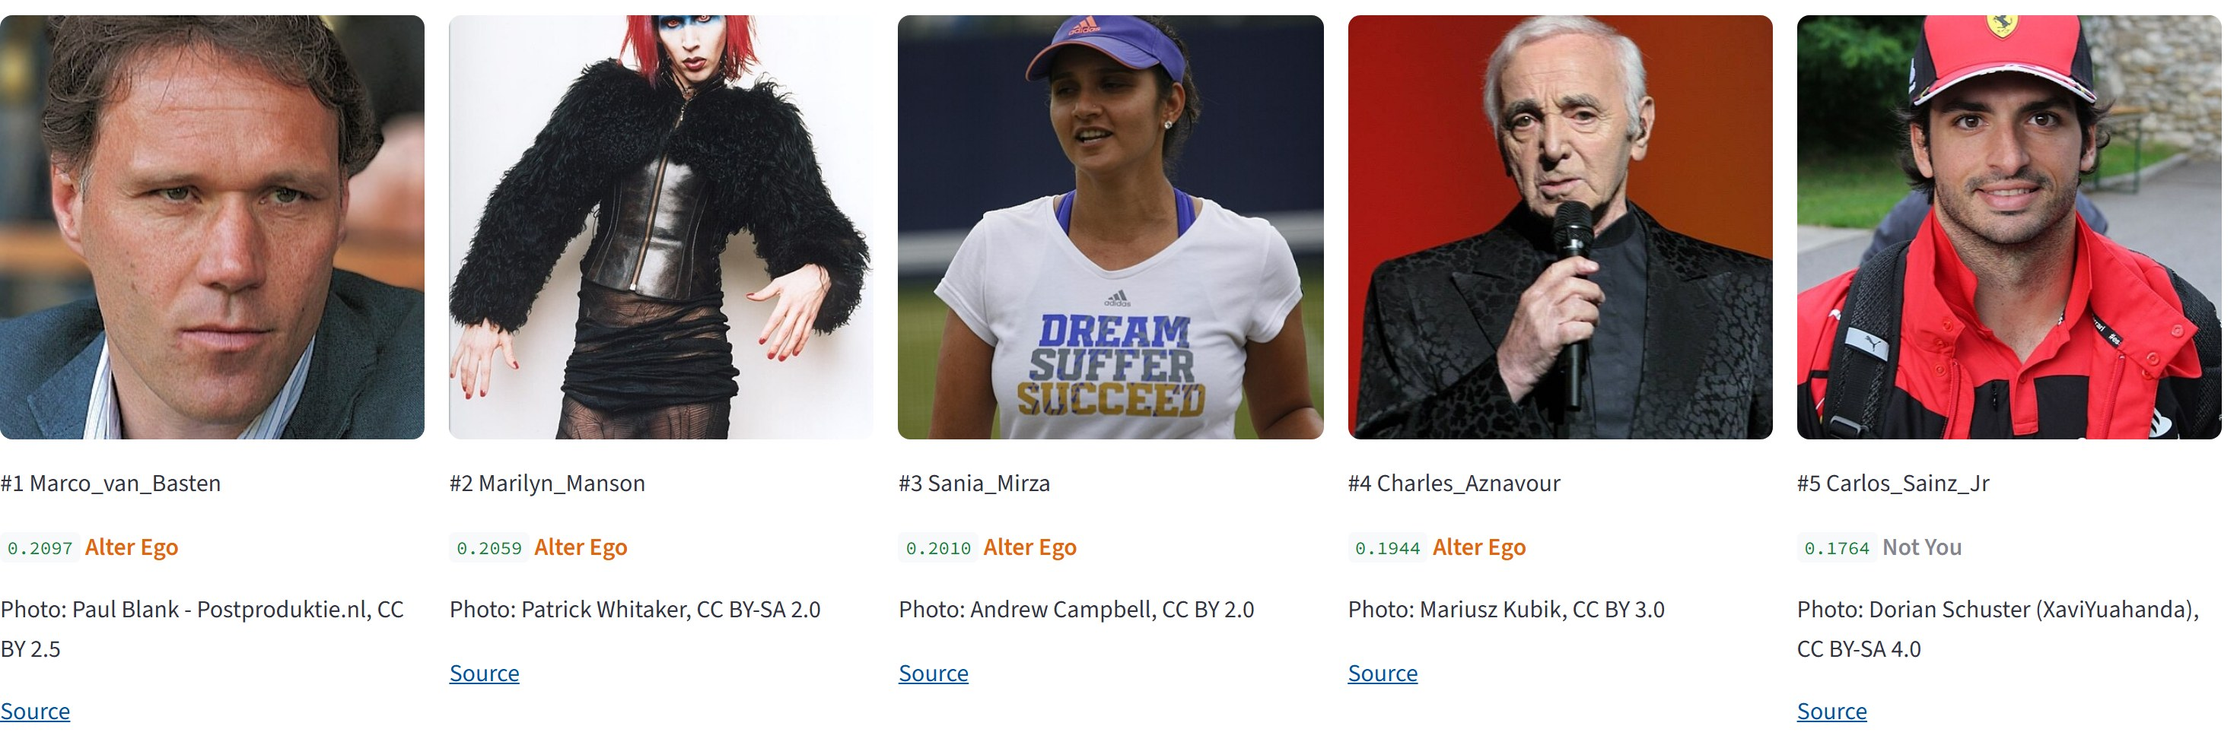
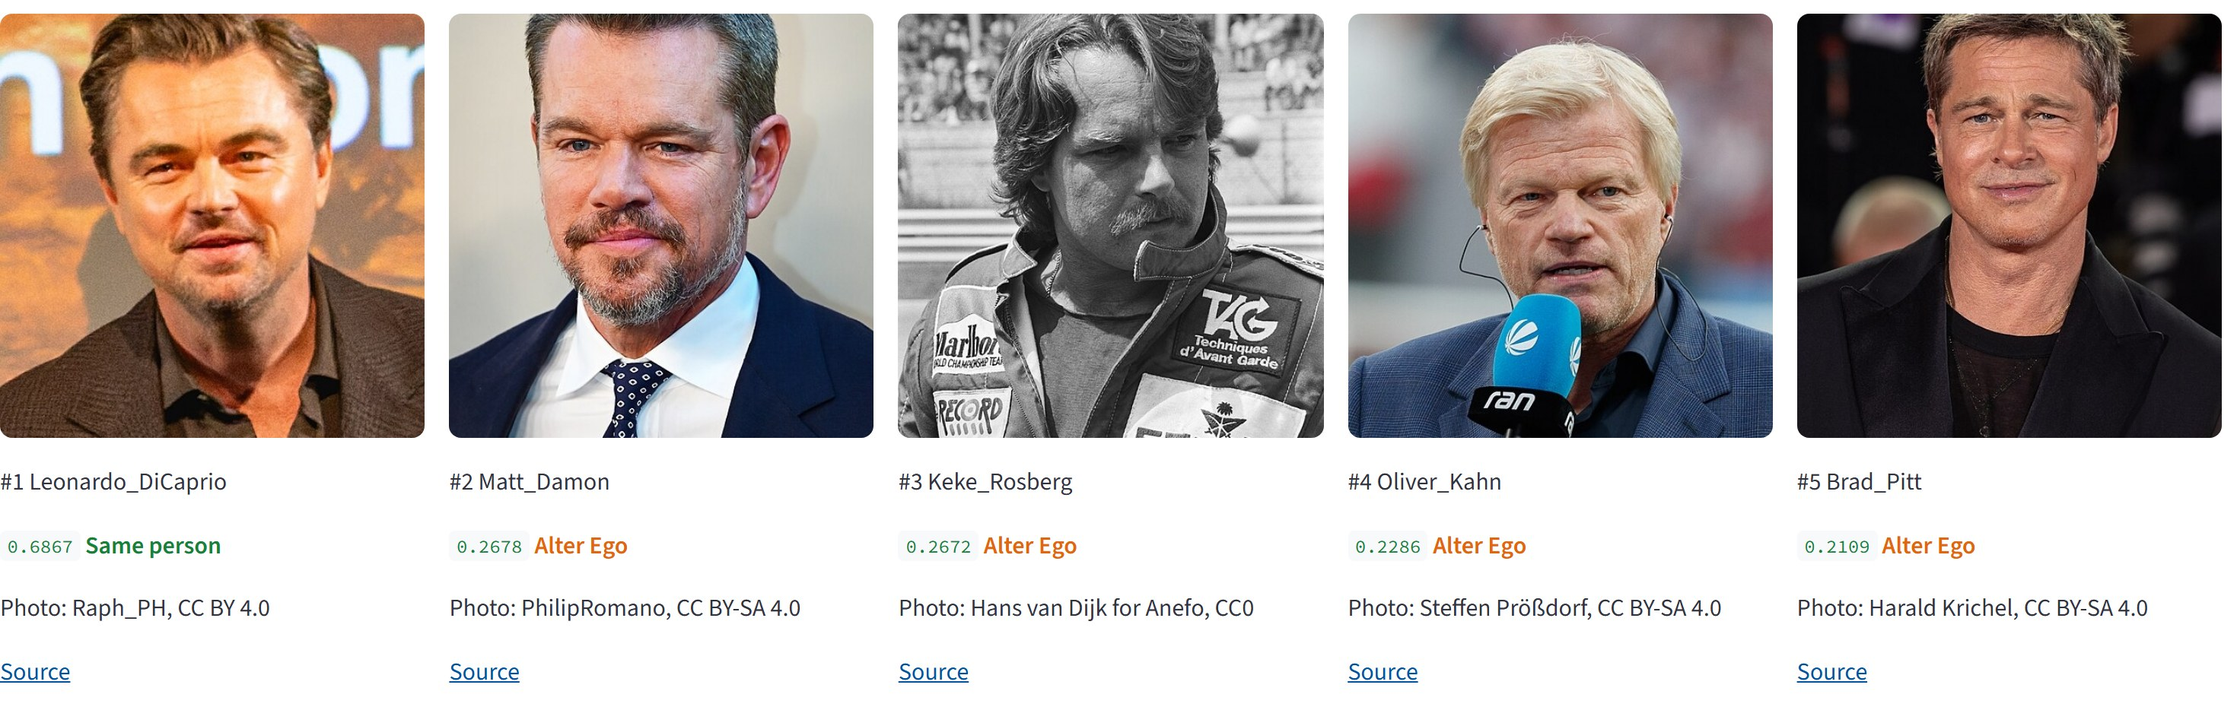
Rework the tour video: Brad Pitt or Leonardo DiCaprio? (step 3)
A second photo of a pool member shows all three labels in one run.

diff --git a/video/tour/compositions/target.html b/video/tour/compositions/target.html
@@ -8,25 +8,26 @@
     #tg-cam { position: absolute; left: 0; top: 0; width: 1920px; height: 1080px; transform-origin: 0 0; background: #fff; outline: 3px solid #1d3c78; }
     #tg-cam img { display: block; width: 1920px; height: 1080px; }
     #tg-ring { position: absolute; left: 0; top: 0; width: 1920px; height: 1080px; overflow: visible; }
-    #tg-panel { position: absolute; left: 60px; top: 330px; width: 660px; height: 300px; background: #f4f7fb; border: 3px solid #1d3c78; padding: 36px 40px; }
+    #tg-panel { position: absolute; left: 60px; top: 330px; width: 660px; height: 380px; background: #f4f7fb; border: 3px solid #1d3c78; padding: 36px 40px; }
     .line { position: absolute; left: 40px; top: 36px; width: 580px; font-family: "Barlow Condensed"; font-weight: 700; text-transform: uppercase; color: #1d3c78; font-size: 72px; line-height: 1; letter-spacing: .01em; }
     .w { display: inline-block; }
     .gold { color: #b8901c; }
   </style>
   <div id="root" data-composition-id="target" data-width="1920" data-height="1080">
     <div id="tg-cam-clip" class="clip layer" data-start="0" data-duration="7">
-      <div id="tg-cam" data-layout-allow-overflow><img src="assets/app-result.jpg" alt="AlterEgo Finder's similarity target for Marie Curie" /></div>
+      <div id="tg-cam" data-layout-allow-overflow><img src="assets/app-result.jpg" alt="AlterEgo Finder's similarity target for the photo" /></div>
       <svg id="tg-ring" viewBox="0 0 1920 1080" data-layout-ignore>
-        <circle id="tg-circle" cx="1300" cy="307" r="44" fill="none" stroke="#1d3c78" stroke-width="5" pathLength="1" stroke-dasharray="1" stroke-dashoffset="1" />
+        <circle id="tg-circle" cx="1300" cy="449" r="44" fill="none" stroke="#1d3c78" stroke-width="5" pathLength="1" stroke-dasharray="1" stroke-dashoffset="1" />
+        <circle id="tg-circle2" cx="1442" cy="722" r="44" fill="none" stroke="#1d3c78" stroke-width="5" pathLength="1" stroke-dasharray="1" stroke-dashoffset="1" />
       </svg>
     </div>
     <div id="tg-panel-clip" class="clip layer" data-start="0" data-duration="7">
       <div id="tg-panel">
         <div id="tg-cap1" class="line">
-          <span class="w">Closest:</span> <span class="w">Marco</span> <span class="w">van</span> <span class="w">Basten,</span> <span class="w">0.2097</span>
+          <span class="w">DiCaprio:</span> <span class="w">inside</span> <span class="w">the</span> <span class="w">ring.</span> <span class="w">Same</span> <span class="w">person,</span> <span class="w">0.6867</span>
         </div>
         <div id="tg-cap2" class="line">
-          <span class="w">Gold</span> <span class="w">means</span> <span class="w">Alter</span> <span class="w">Ego:</span> <span class="w">close,</span> <span class="w">but</span> <span class="w">not</span> <span class="w">her.</span>
+          <span class="w">Brad</span> <span class="w">Pitt:</span> <span class="w">0.2109.</span> <span class="w">Only</span> <span class="w">an</span> <span class="w">Alter</span> <span class="w">Ego.</span>
         </div>
       </div>
     </div>
@@ -43,6 +44,8 @@
     words("#tg-cap1", 1.15);
     tl.to("#tg-circle", { strokeDashoffset: 0, duration: 0.5, ease: "power2.out" }, 1.5);
     out("#tg-cap1", 3.75);
+    tl.to("#tg-circle", { opacity: 0, duration: 0.15, ease: "power3.in" }, 3.75);
+    tl.to("#tg-circle2", { strokeDashoffset: 0, duration: 0.5, ease: "power2.out" }, 4.1);
     words("#tg-cap2", 4.05);
     window.__timelines["target"] = tl;
   </script>

diff --git a/video/tour/compositions/drop.html b/video/tour/compositions/drop.html
@@ -8,7 +8,7 @@
     .layer { position: absolute; inset: 0; }
     .line { position: absolute; font-family: "Barlow Condensed"; font-weight: 700; text-transform: uppercase; color: #1d3c78; letter-spacing: .01em; line-height: .98; }
     .w { display: inline-block; }
-    #drop-hook { left: 150px; top: 300px; font-size: 150px; width: 900px; }
+    #drop-hook { left: 150px; top: 230px; font-size: 140px; width: 960px; }
     #drop-photo { position: absolute; left: 1180px; top: 120px; width: 560px; border: 3px solid #1d3c78; background: #fff; transform-origin: 0 0; overflow: hidden; }
     #drop-photo img { display: block; width: 100%; }
     #drop-credit { position: absolute; left: 1180px; top: 902px; width: 600px; font: 500 28px/1.3 "Barlow"; color: #46505d; }
@@ -20,22 +20,21 @@
     <div id="drop-app-clip" class="clip layer" data-start="2.6" data-duration="6.4">
       <div id="drop-app">
         <img id="drop-empty" src="assets/app-empty.jpg" alt="The AlterEgo Finder page, empty, pool of 500 chosen" />
-        <img id="drop-result" src="assets/app-result.jpg" alt="The AlterEgo Finder page with Marie Curie's result" />
+        <img id="drop-result" src="assets/app-result.jpg" alt="The AlterEgo Finder page with the result for the photo" />
       </div>
     </div>
     <div id="drop-hook" class="line clip" data-start="0" data-duration="3.2">
-      <span class="w">Who</span> <span class="w">does</span> <span class="w">she</span><br />
-      <span class="w">look</span> <span class="w">like?</span>
+      <span class="w">Brad</span> <span class="w">Pitt</span> <span class="w">or</span><br /><span class="w">Leonardo</span><br /><span class="w">DiCaprio?</span>
     </div>
-    <div id="drop-credit" class="clip" data-start="0" data-duration="3.2">Marie Curie, about 1920. Photo: Henri Manuel, public domain (Wikimedia Commons).</div>
+    <div id="drop-credit" class="clip" data-start="0" data-duration="3.2">Photo: Presidencia de la Rep&uacute;blica Mexicana, 2017, CC BY 2.0 (Wikimedia Commons).</div>
     <div id="drop-photo-clip" class="clip layer" data-start="0" data-duration="5.2">
-      <div id="drop-photo"><img id="drop-photo-img" src="assets/curie.jpg" alt="Marie Curie" /></div>
+      <div id="drop-photo"><img id="drop-photo-img" src="assets/leonardo.jpg" alt="A photo of Leonardo DiCaprio, 2017" /></div>
     </div>
     <div id="drop-cap1" class="line clip" data-start="3.2" data-duration="2.6">
-      <span class="w">Drop</span> <span class="w">a</span> <span class="w">face</span> <span class="w">photo</span> <span class="w">on</span> <span class="w">the</span> <span class="w">page.</span>
+      <span class="w">Ask</span> <span class="w">AlterEgo</span> <span class="w">Finder:</span> <span class="w">drop</span> <span class="w">the</span> <span class="w">photo.</span>
     </div>
     <div id="drop-cap2" class="line clip" data-start="5.8" data-duration="3.2">
-      <span class="w">It</span> <span class="w">compares</span> <span class="w">her</span> <span class="w">with</span> <span class="w">500</span> <span class="w">public</span> <span class="w">figures.</span>
+      <span class="w">It</span> <span class="w">compares</span> <span class="w">him</span> <span class="w">with</span> <span class="w">500</span> <span class="w">public</span> <span class="w">figures.</span>
     </div>
   </div>
   <script>

diff --git a/video/tour/compositions/cards.html b/video/tour/compositions/cards.html
@@ -5,23 +5,23 @@
       background-image: linear-gradient(rgba(29,60,120,.09) 1px, transparent 1px), linear-gradient(90deg, rgba(29,60,120,.09) 1px, transparent 1px);
       background-size: 40px 40px; overflow: hidden; }
     .layer { position: absolute; inset: 0; }
-    #cd-window { position: absolute; left: 60px; top: 40px; width: 1800px; height: 888px; background: #fff; border: 3px solid #1d3c78; overflow: hidden; }
-    #cd-strip { position: absolute; left: 0; top: 0; width: 2646px; height: 882px; }
-    #cd-strip img { display: block; width: 2646px; height: 882px; }
+    #cd-window { position: absolute; left: 60px; top: 60px; width: 1800px; height: 843px; background: #fff; border: 3px solid #1d3c78; overflow: hidden; }
+    #cd-strip { position: absolute; left: 0; top: 0; width: 2646px; height: 837px; }
+    #cd-strip img { display: block; width: 2646px; height: 837px; }
     .line { position: absolute; left: 60px; top: 958px; width: 1800px; font-family: "Barlow Condensed"; font-weight: 700; text-transform: uppercase; color: #1d3c78; font-size: 66px; line-height: 1; letter-spacing: .01em; }
     .w { display: inline-block; }
   </style>
   <div id="root" data-composition-id="cards" data-width="1920" data-height="1080">
     <div id="cd-clip" class="clip layer" data-start="0" data-duration="7.5">
       <div id="cd-window">
-        <div id="cd-strip" data-layout-allow-overflow><img id="cd-img" src="assets/cards-row1.jpg" alt="The first five result cards: Marco van Basten, Marilyn Manson, Sania Mirza and Charles Aznavour labelled Alter Ego, Carlos Sainz Jr labelled Not You, each with its photo credit" /></div>
+        <div id="cd-strip" data-layout-allow-overflow><img id="cd-img" src="assets/cards-row1.jpg" alt="The first five result cards: Leonardo DiCaprio labelled Same person at 0.6867; Matt Damon, Keke Rosberg, Oliver Kahn and Brad Pitt labelled Alter Ego; each with its photo credit" /></div>
       </div>
     </div>
     <div id="cd-cap1" class="line clip" data-start="0" data-duration="3.9">
-      <span class="w">Four</span> <span class="w">Alter</span> <span class="w">Egos.</span> <span class="w">The</span> <span class="w">rest:</span> <span class="w">Not</span> <span class="w">You.</span>
+      <span class="w">A</span> <span class="w">different</span> <span class="w">photo,</span> <span class="w">and</span> <span class="w">it</span> <span class="w">still</span> <span class="w">finds</span> <span class="w">him.</span>
     </div>
     <div id="cd-cap2" class="line clip" data-start="3.9" data-duration="3.6">
-      <span class="w">Nobody</span> <span class="w">reached</span> <span class="w">Same</span> <span class="w">person:</span> <span class="w">that</span> <span class="w">needs</span> <span class="w">0.3706.</span>
+      <span class="w">Brad</span> <span class="w">Pitt</span> <span class="w">and</span> <span class="w">three</span> <span class="w">others:</span> <span class="w">only</span> <span class="w">lookalikes.</span>
     </div>
   </div>
   <script>

diff --git a/video/tour/compositions/local.html b/video/tour/compositions/local.html
@@ -8,17 +8,17 @@
     #lc-window { position: absolute; left: 60px; top: 60px; width: 1800px; height: 560px; background: #fff; border: 3px solid #1d3c78; overflow: hidden; }
     #lc-cam { position: absolute; left: 0; top: 0; width: 1920px; height: 1080px; transform-origin: 0 0; }
     #lc-cam img { display: block; width: 1920px; height: 1080px; }
-    .line { position: absolute; left: 60px; top: 700px; width: 1800px; font-family: "Barlow Condensed"; font-weight: 700; text-transform: uppercase; color: #1d3c78; font-size: 110px; line-height: 1; letter-spacing: .01em; }
+    .line { position: absolute; left: 60px; top: 680px; width: 1800px; font-family: "Barlow Condensed"; font-weight: 700; text-transform: uppercase; color: #1d3c78; font-size: 96px; line-height: 1; letter-spacing: .01em; }
     .w { display: inline-block; }
   </style>
   <div id="root" data-composition-id="local" data-width="1920" data-height="1080">
-    <div id="lc-clip" class="clip layer" data-start="0" data-duration="3.5">
+    <div id="lc-clip" class="clip layer" data-start="0" data-duration="4">
       <div id="lc-window">
         <div id="lc-cam" data-layout-allow-overflow><img src="assets/app-result.jpg" alt="The app's own line: Runs on this machine only. Your photo is never uploaded anywhere." /></div>
       </div>
     </div>
-    <div id="lc-cap" class="line clip" data-start="0" data-duration="3.5">
-      <span class="w">Nothing</span> <span class="w">leaves</span> <span class="w">your</span> <span class="w">computer.</span>
+    <div id="lc-cap" class="line clip" data-start="0" data-duration="4">
+      <span class="w">Try</span> <span class="w">your</span> <span class="w">own</span> <span class="w">photo.</span> <span class="w">It</span> <span class="w">never</span> <span class="w">leaves</span> <span class="w">your</span> <span class="w">computer.</span>
     </div>
   </div>
   <script>
@@ -26,7 +26,7 @@
     // camera settles on the app's header: title and "Runs on this machine only..." (window-local coords)
     tl.fromTo("#lc-cam", { x: -400, y: -120, scale: 2.2 }, { x: -943, y: -394, scale: 3.2, duration: 1.0, ease: "power2.inOut" }, 0);
     tl.fromTo("#lc-cap .w", { opacity: 0, filter: "blur(6px)" }, { opacity: 1, filter: "blur(0px)", duration: 0.13, stagger: 0.067, ease: "power4.out" }, 0.7);
-    tl.to("#lc-cap .w", { opacity: 0, filter: "blur(8px)", duration: 0.18, stagger: 0.03, ease: "power3.in" }, 3.2);
+    tl.to("#lc-cap .w", { opacity: 0, filter: "blur(8px)", duration: 0.18, stagger: 0.03, ease: "power3.in" }, 3.7);
     window.__timelines["local"] = tl;
   </script>
 </template>

diff --git a/video/tour/index.html b/video/tour/index.html
@@ -11,7 +11,7 @@
     </style>
   </head>
   <body>
-    <div id="root" data-composition-id="main" data-start="0" data-duration="32" data-width="1920" data-height="1080">
+    <div id="root" data-composition-id="main" data-start="0" data-duration="32.5" data-width="1920" data-height="1080">
       <div id="drop" data-composition-id="drop" data-composition-src="compositions/drop.html"
            data-start="0" data-duration="9" data-track-index="1" data-track-kind="graphics"
            data-width="1920" data-height="1080"></div>
@@ -22,10 +22,10 @@
            data-start="16" data-duration="7.5" data-track-index="1" data-track-kind="graphics"
            data-width="1920" data-height="1080"></div>
       <div id="local" data-composition-id="local" data-composition-src="compositions/local.html"
-           data-start="23.5" data-duration="3.5" data-track-index="1" data-track-kind="graphics"
+           data-start="23.5" data-duration="4" data-track-index="1" data-track-kind="graphics"
            data-width="1920" data-height="1080"></div>
       <div id="end" data-composition-id="end" data-composition-src="compositions/end.html"
-           data-start="27" data-duration="5" data-track-index="1" data-track-kind="graphics"
+           data-start="27.5" data-duration="5" data-track-index="1" data-track-kind="graphics"
            data-width="1920" data-height="1080"></div>
     </div>
     <script>

diff --git a/video/tour/compositions/end.html b/video/tour/compositions/end.html
@@ -20,7 +20,7 @@
       <div id="en-rule"></div>
       <div id="en-act">Run it at home: the commands are on this page.</div>
       <div id="en-url">esst-prog2.github.io/AlterEgo_Finder</div>
-      <div id="en-credit">Photos: Curie by Henri Manuel, public domain; the others from Wikimedia Commons, credited in the app.</div>
+      <div id="en-credit">Photos from Wikimedia Commons: DiCaprio by Presidencia de la Rep&uacute;blica Mexicana, CC BY 2.0; the others credited in the app.</div>
     </div>
   </div>
   <script>

diff --git a/video/tour/SPEC.md b/video/tour/SPEC.md
@@ -3,28 +3,30 @@
 GOAL:    a viewer who has never heard of the program knows what it does (drop a face, get the closest
          public figures with honest labels) and that it runs on their own computer.
 OUTPUT:  HyperFrames, 1920 x 1080, 30 fps, silent (it plays muted on the promo page).
-TIME:    30 s x 30 fps = 900 frames.
+TIME:    32.5 s x 30 fps = 975 frames.
 LOOK:    the promo page's scorecard world. Ground #f4f7fb with a printed grid (40 px, rgba(29,60,120,.09));
          ink #1f2328; rule navy #1d3c78 for every display line and frame. Label colours appear only on
          labels: #1a7f37 Same person, #d4a72c Alter Ego, #8c959f Not You.
          Display: Barlow Condensed 700, uppercase, 72-150 px, tracking 0.01em. Body: Barlow 500, 30-34 px.
          The medium is the real product UI: screenshots of the running Streamlit app (pool of 500,
-         query photo of Marie Curie), framed by a 3 px navy rule like the page's cards. No shadows,
+         query: a second photo of Leonardo DiCaprio, not the pool's own), framed by a 3 px navy rule like the page's cards. No shadows,
          no grain, no vignette.
-OBJECTS: the Curie photograph (a printed photo with its credit), the app window, the similarity
+OBJECTS: the DiCaprio photograph (a printed photo with its credit), the app window, the similarity
          target, the result cards with their real labels and photo credits.
 MOTION:  enter expo.out, camera power2.inOut, exit power3.in. Titles per word: blur 6 px -> 0 and
          opacity 0 -> 1 in 0.13 s, 0.067 s apart. Exits 40-50% of entrances. Landed text holds still.
 SHOTS:
-  0-3 s     drop   "Who does she look like?" beside the Curie photo and its credit.
+  0-3 s     drop   "Brad Pitt or Leonardo DiCaprio?" beside a 2017 photo of DiCaprio and its credit.
   3-9 s     drop   the app slides in; the photo is carried into the query box; the result replaces the
-                   empty app. "Drop a face photo on the page." -> "It compares her with 500 public figures."
-  9-16 s    target camera pushes from the whole app into the similarity target (2x).
-                   "Closest: Marco van Basten, 0.2097" -> "Gold means Alter Ego: close, but not her."
-  16-23.5 s cards  the ten real cards reveal left to right. "Four Alter Egos. The rest: Not You." ->
-                   "Nobody reached Same person: that needs 0.3706."
-  23.5-27 s local  push into the app's own line "Runs on this machine only..." "Nothing is uploaded."
-  27-30 s   end    wordmark, the action (commands on this page), address, photo credits; held 2 s+.
+                   empty app. "Ask AlterEgo Finder: drop the photo." -> "It compares him with 500 public figures."
+  9-16 s    target camera pushes into the similarity target (2.4x). A ring draws round the one green dot:
+                   "DiCaprio: inside the ring. Same person, 0.6867" -> round Brad Pitt's gold dot:
+                   "Brad Pitt: 0.2109. Only an Alter Ego."
+  16-23.5 s cards  the five real cards reveal, then pan to Brad Pitt. "A different photo, and it still finds
+                   him." -> "Brad Pitt and three others: only lookalikes."
+  23.5-27.5 s local push into the app's own line "Runs on this machine only..." "Try your own photo. It
+                   never leaves your computer."
+  27.5-32.5 s end  wordmark, the action (commands on this page), address, photo credits.
 BANNED:  dark void; glow; gradients; glass; everything centred; everything fading in at once;
          text moving while read; three cards in a row as a feature list; a title over a dimmed
          screenshot; invented UI; logo docked in a corner.

diff --git a/video/REVIEW.md b/video/REVIEW.md
@@ -4,15 +4,20 @@ Both: 1920 x 1080, 30 fps, silent on purpose (the course asks for a video that w
 sound, and it plays muted on the page). `hyperframes check` passes for both; the kept warnings are
 `film_silent` (on purpose) and `timeline_track_too_dense` (a few timed lines per scene).
 
-## Tour (video/tour, 32 s)
-- Real screens: the running Streamlit app with the pool of 500 and a public-domain photo of Marie
-  Curie (Henri Manuel, about 1920, Wikimedia Commons). Her result is real: Marco van Basten 0.2097,
-  four Alter Egos, nobody at Same person. The cards' photos keep the app's own credits.
-- Checked: frames at 1.5, 3.8, 4.6, 7.5, 12.5, 14.5, 17.5, 21, 25.5 and 30 s, and five frames of the
-  rendered MP4.
-- Weakest shot: the target's own labels stay small even at 2.4x (the app draws them at 11 px).
-- The photo landing in the query box is drawn over a screenshot: dropping a file there is a real
-  feature of the page, but this is a re-enactment, not a screen recording.
+## Tour (video/tour, 32.5 s), second version
+- Story: "Brad Pitt or Leonardo DiCaprio?" The query is a second photo of DiCaprio (Presidencia de la
+  Republica Mexicana, 2017, CC BY 2.0, Wikimedia Commons), not the pool's own photo of him. The real
+  result: DiCaprio first at 0.6867 (Same person, the one face inside the ring), then Matt Damon
+  0.2678, Keke Rosberg 0.2672, Oliver Kahn 0.2286 and Brad Pitt 0.2109 (Alter Ego). The cards keep
+  the app's own photo credits.
+- Chosen from 13 well-known pool members tested with other openly licensed Commons photos; a photo
+  with private people in the background was ruled out.
+- The first version (Marie Curie, nobody at Same person) was replaced because it could not show all
+  three labels.
+- Checked: snapshots at 1.5, 4.6, 7.5, 12, 15, 18, 21.5, 26 and 30.5 s, and six frames of the MP4.
+- Kept warnings: the two credit lines are on screen shorter than a full read; they are credits.
+- The photo landing in the query box is re-enacted over screenshots: dropping a file there is a
+  real feature of the page, but that moment is not a screen recording.
 
 ## Explainer (video/explainer, 32.5 s)
 - Every number is measured: the fixed bar 0.2017 and 66 / 198 / 200 of 200 strangers at

diff --git a/PROCESS.md b/PROCESS.md
@@ -24,3 +24,4 @@ How the promo page (Homework 9) was made: after each step, one row with the step
 | HW10 2. Make both videos | With HyperFrames: drove the real app with Playwright (pool of 500, a public-domain photo of Marie Curie) for screenshots, wrote a SPEC.md for each video, built the tour (5 scenes: the photo dropped on the page, the target, the cards, "nothing leaves your computer", name and address) and the explainer (5 scenes: "your best match scores 0.25", one fixed bar, 200 strangers at 50/500/5,000 faces, the calibrated bars, the sentence to remember) from measured numbers only. Ran `hyperframes check`, looked at snapshots, fixed unreadable or too-short lines, rendered both and checked frames of the MP4s. Notes in video/REVIEW.md. | Pick one for the page. |
 | Link the promo page | Added the page's address under the README's title, leaving section 1 (the submitted demo description) unchanged. | Asked for the link to be findable from the repository. |
 | Repository About box | Set the repository's website to the promo page and added a one-line description with `gh repo edit`. | Approved running it. |
+| HW10 3. Rework the tour | Opened the tour in HyperFrames' preview; searched Wikimedia Commons for other openly licensed photos of 13 well-known pool members and ran each through the real pipeline; rebuilt the tour around "Brad Pitt or Leonardo DiCaprio?" with new screenshots of the real app (DiCaprio first at 0.6867, Same person; Brad Pitt 0.2109, Alter Ego), new captions, two rings on the target and an updated spec and review; checked and rendered it. | Chose the tour for the page and asked for big changes: a new story and an example from the Wikidata pool; picked the pool-member example and the "Brad Pitt or DiCaprio?" storyline; left the person to the agent. |

diff --git a/PLANNING_LOG.md b/PLANNING_LOG.md
@@ -221,3 +221,6 @@ One line per decision: date, what was decided, who decided it. Append-only — n
 - 2026-11-17: The README links the promo page on its own line under the title, above section 1 (which stays as submitted). Proposed by user.
 - 2026-11-17: Correction to the previous line's attribution: linking the promo page from the README was decided by the user (the label "Proposed by user" is not one of the log's three). Decided by user.
 - 2026-11-17: The GitHub repository's About box links the promo page as its website, with the description "Find which public figures a face resembles, with calibrated confidence labels. Runs locally." Proposed by agent, accepted by user.
+- 2026-11-17: The tour goes on the promo page; the explainer is kept for the 28 November slides. Proposed by agent, accepted by user.
+- 2026-11-17: The tour is reworked, not final: its example becomes a pool member found from a different photo, so all three labels appear in one run, and its story becomes "Brad Pitt or Leonardo DiCaprio?". Story and example type proposed by agent, accepted by user (the user asked for a new story and example on the Wikidata pool).
+- 2026-11-17: The tour's query photo is "Leonardo DiCaprio 2017.jpg" (Presidencia de la Republica Mexicana, CC BY 2.0), chosen from second photos of 13 pool members: it finds him first at 0.6867 (Same person) with Matt Damon 0.2678 and Brad Pitt 0.2109 among four Alter Egos; a higher-scoring photo of him was ruled out because private people stand behind him. Decided by agent.
